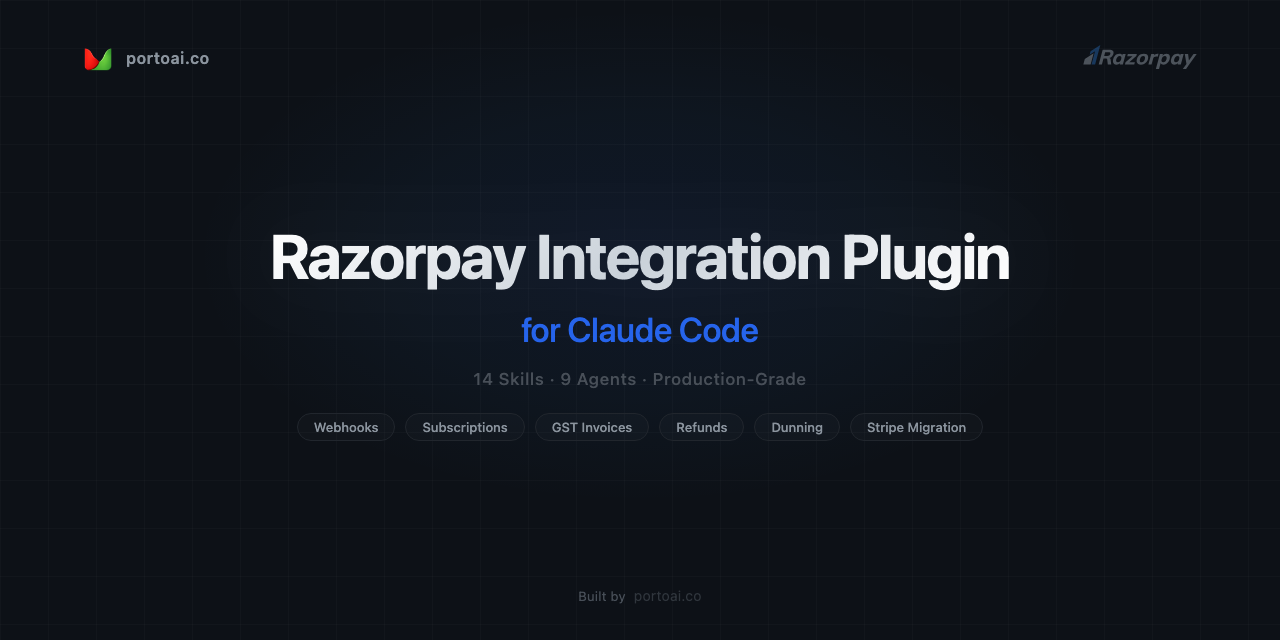
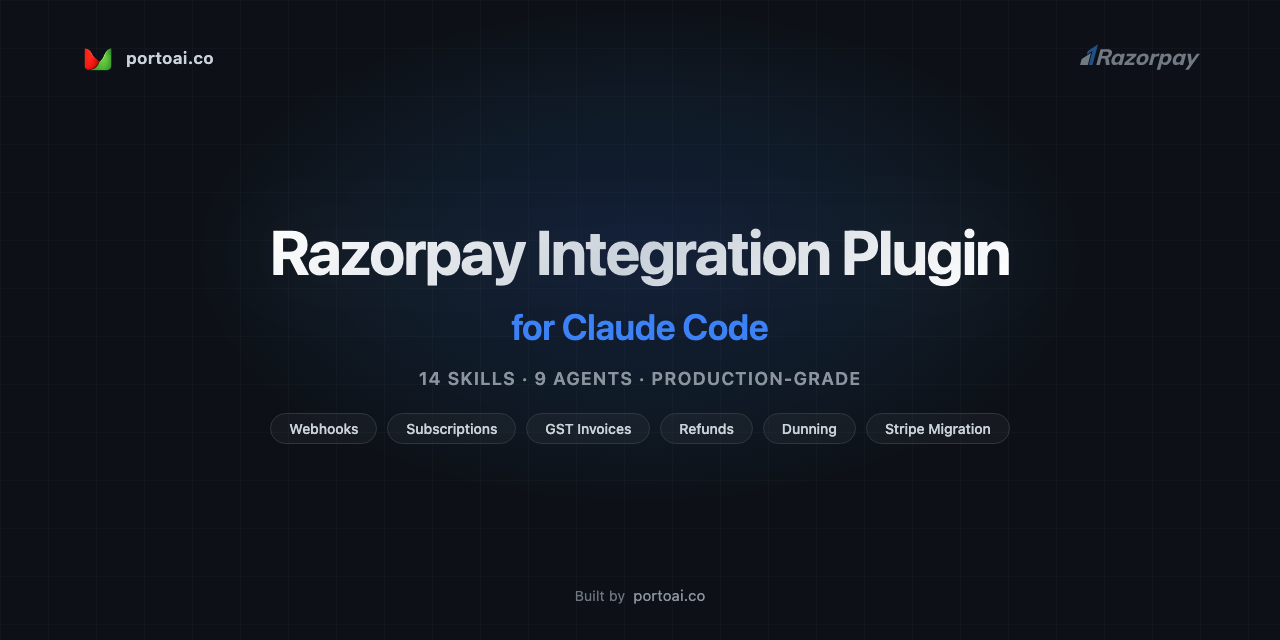
fix: Improve social preview contrast and readability
Boosted text colors, border visibility, logo opacity, and background
glow so all elements are clearly readable at thumbnail size.

diff --git a/assets/social-preview.html b/assets/social-preview.html
@@ -43,7 +43,7 @@
     width: 900px;
     height: 500px;
     transform: translate(-50%, -50%);
-    background: radial-gradient(ellipse, rgba(37,99,235,0.08) 0%, rgba(51,149,255,0.04) 40%, transparent 70%);
+    background: radial-gradient(ellipse, rgba(37,99,235,0.15) 0%, rgba(51,149,255,0.07) 40%, transparent 70%);
     pointer-events: none;
   }
 
@@ -79,15 +79,15 @@
   }
 
   .logo-portoai span {
-    font-size: 16px;
+    font-size: 17px;
     font-weight: 600;
     letter-spacing: 0.04em;
-    color: #8b949e;
+    color: #c9d1d9;
   }
 
   .logo-razorpay svg {
-    height: 24px;
-    opacity: 0.5;
+    height: 28px;
+    opacity: 0.8;
   }
 
   /* Main content */
@@ -114,17 +114,18 @@
   }
 
   .subtitle {
-    font-size: 34px;
-    font-weight: 500;
-    color: #2563eb;
+    font-size: 36px;
+    font-weight: 600;
+    color: #3b82f6;
     letter-spacing: -0.01em;
   }
 
   .tagline {
-    font-size: 17px;
-    font-weight: 500;
-    color: #484f58;
-    letter-spacing: 0.05em;
+    font-size: 18px;
+    font-weight: 600;
+    color: #8b949e;
+    letter-spacing: 0.08em;
+    text-transform: uppercase;
     margin-top: 2px;
   }
 
@@ -137,13 +138,13 @@
   }
 
   .pill {
-    font-size: 13px;
+    font-size: 14px;
     font-weight: 500;
-    color: #8b949e;
-    border: 1px solid #21262d;
+    color: #c9d1d9;
+    border: 1px solid #30363d;
     border-radius: 9999px;
-    padding: 5px 16px;
-    background: rgba(255,255,255,0.02);
+    padding: 6px 18px;
+    background: rgba(255,255,255,0.04);
     white-space: nowrap;
   }
 
@@ -152,18 +153,18 @@
     display: flex;
     align-items: center;
     gap: 8px;
-    font-size: 14px;
-    color: #30363d;
+    font-size: 15px;
+    color: #8b949e;
     letter-spacing: 0.02em;
   }
 
   .footer .dot {
-    color: #21262d;
+    color: #484f58;
   }
 
   .built-by {
-    color: #484f58;
-    font-size: 13px;
+    color: #6e7681;
+    font-size: 14px;
   }
 </style>
 </head>
